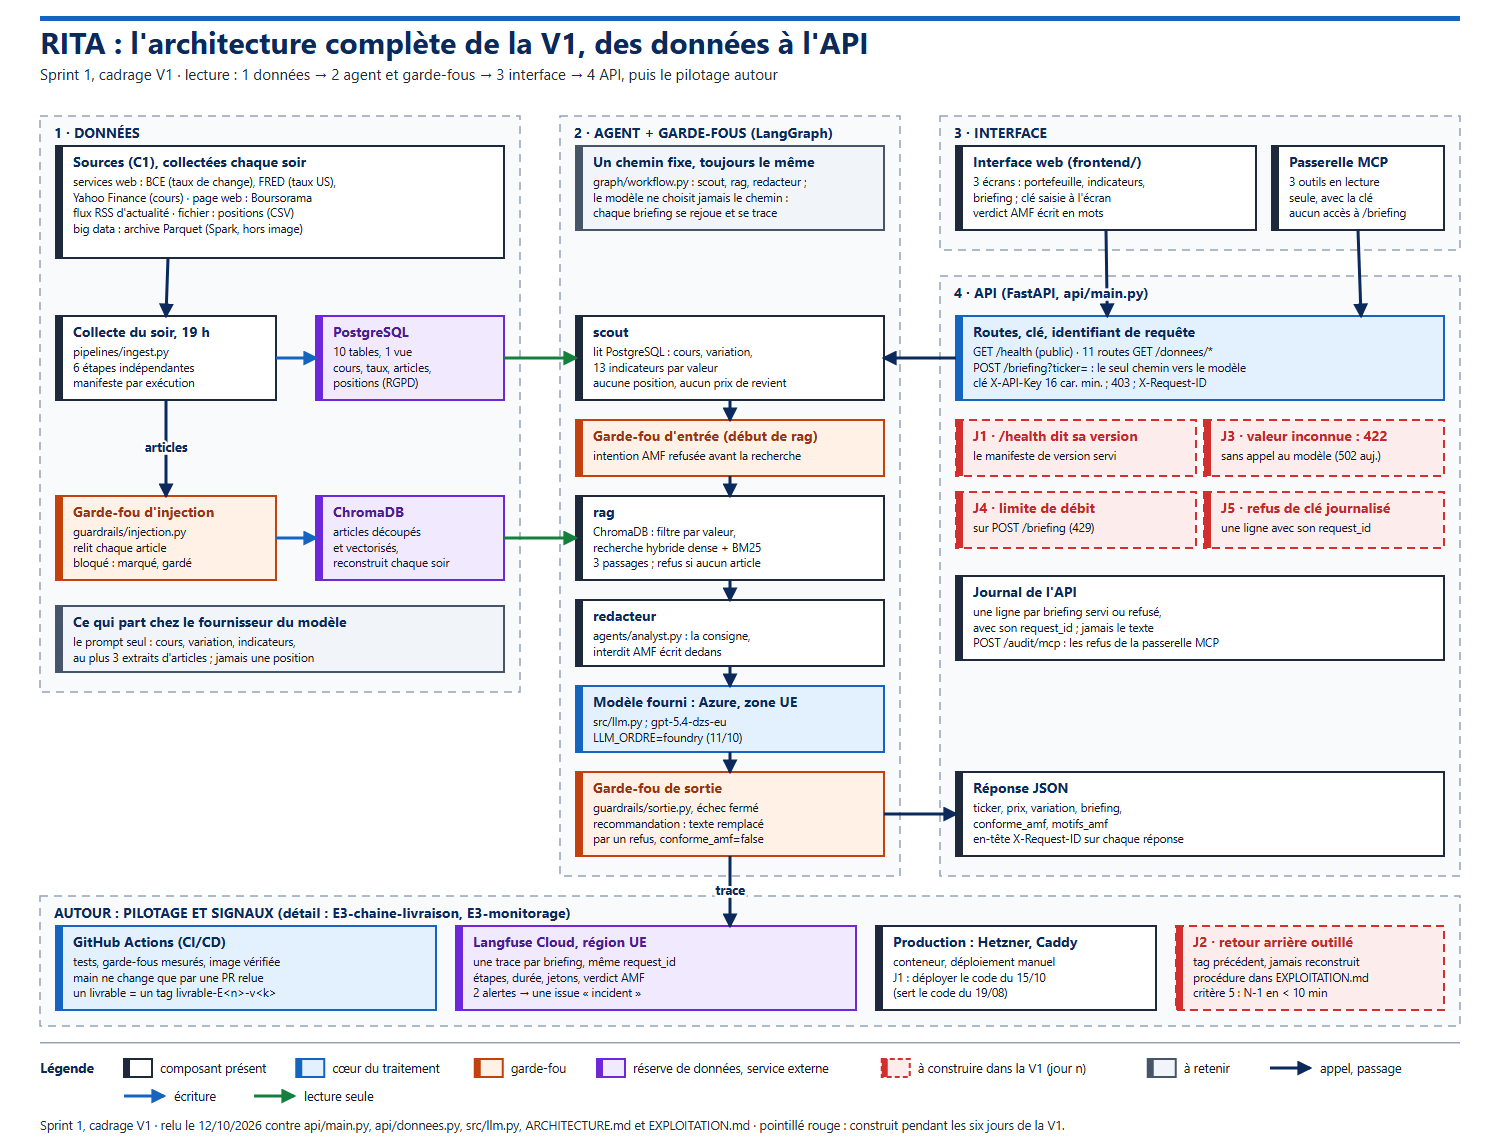
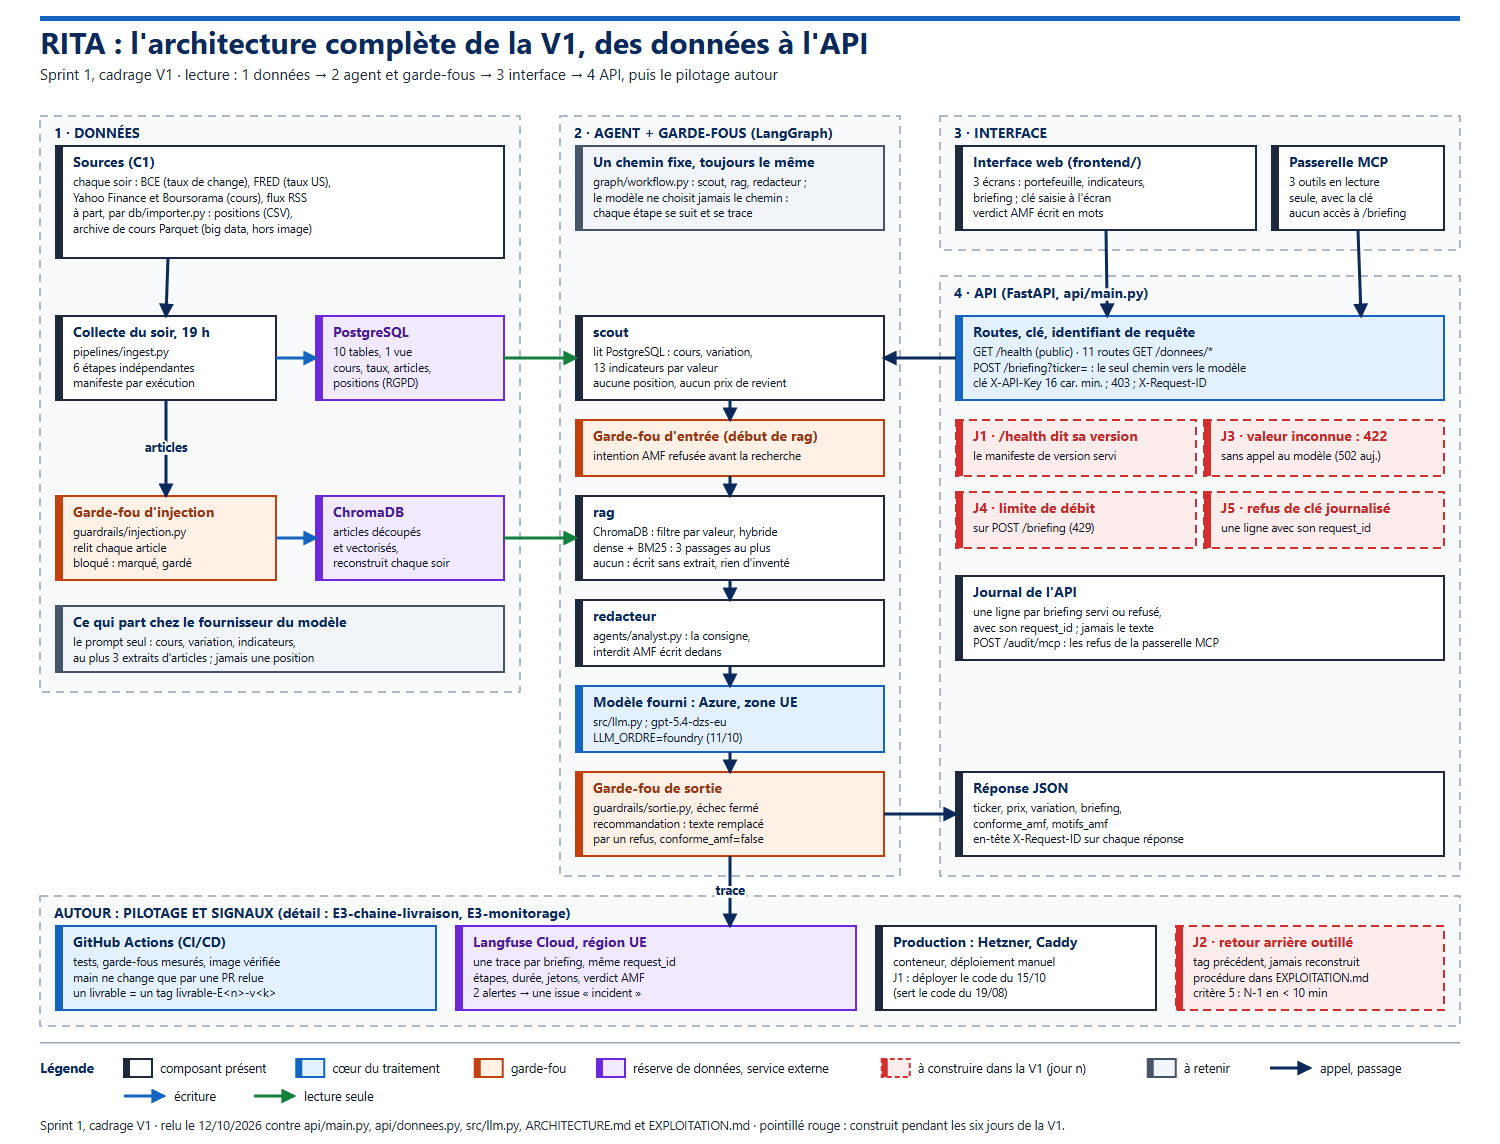
Cadrage V1 : jour 4 coupe en premier (le critere 4 exige le jour 5) ; schema corrige (positions et archive importees a part, rag sans extrait sans refus)

Changed region(s): [[0.0307, 0.1224, 0.2147, 0.2142], [0.3987, 0.4589, 0.5213, 0.5201], [0.4293, 0.1836, 0.5213, 0.2142]]

diff --git a/docs/cadrage/generer_schema_architecture_v1.py b/docs/cadrage/generer_schema_architecture_v1.py
@@ -29,11 +29,11 @@ ARCHI_V1 = Schema(
     boites=[
         # 1 · Données : les sources, la collecte du soir, les deux réserves.
         Boite("z1", 40, 100, 480, 576, "1 · DONNÉES", genre="zone"),
-        Boite("src", 56, 130, 448, 112, "Sources (C1), collectées chaque soir", [
-            "services web : BCE (taux de change), FRED (taux US),",
-            "  Yahoo Finance (cours) · page web : Boursorama",
-            "flux RSS d'actualité · fichier : positions (CSV)",
-            "big data : archive Parquet (Spark, hors image)"], "normal"),
+        Boite("src", 56, 130, 448, 112, "Sources (C1)", [
+            "chaque soir : BCE (taux de change), FRED (taux US),",
+            "  Yahoo Finance et Boursorama (cours), flux RSS",
+            "à part, par db/importer.py : positions (CSV),",
+            "  archive de cours Parquet (big data, hors image)"], "normal"),
         Boite("nuit", 56, 300, 220, 84, "Collecte du soir, 19 h", [
             "pipelines/ingest.py", "6 étapes indépendantes", "manifeste par exécution"], "normal"),
         Boite("pg", 316, 300, 188, 84, "PostgreSQL", [
@@ -51,15 +51,15 @@ ARCHI_V1 = Schema(
         Boite("fixe", 576, 130, 308, 84, "Un chemin fixe, toujours le même", [
             "graph/workflow.py : scout, rag, redacteur ;",
             "le modèle ne choisit jamais le chemin :",
-            "chaque briefing se rejoue et se trace"], "note"),
+            "chaque étape se suit et se trace"], "note"),
         Boite("scout", 576, 300, 308, 84, "scout", [
             "lit PostgreSQL : cours, variation,", "13 indicateurs par valeur",
             "aucune position, aucun prix de revient"], "normal"),
         Boite("ge", 576, 404, 308, 56, "Garde-fou d'entrée (début de rag)", [
             "intention AMF refusée avant la recherche"], "garde"),
         Boite("rag", 576, 480, 308, 84, "rag", [
-            "ChromaDB : filtre par valeur,", "recherche hybride dense + BM25",
-            "3 passages ; refus si aucun article"], "normal"),
+            "ChromaDB : filtre par valeur, hybride", "dense + BM25 : 3 passages au plus",
+            "aucun : écrit sans extrait, rien d'inventé"], "normal"),
         Boite("red", 576, 584, 308, 66, "redacteur", [
             "agents/analyst.py : la consigne,", "interdit AMF écrit dedans"], "normal"),
         Boite("mod", 576, 670, 308, 66, "Modèle fourni : Azure, zone UE", [

diff --git a/docs/CADRAGE-V1.md b/docs/CADRAGE-V1.md
@@ -31,7 +31,8 @@ Le parcours principal existe et est testé. La V1 ferme les manques déjà relev
 | 5 | Refus de clé journalisés avec leur `request_id` |
 | 6 | Marge : tests et documentation |
 
-À couper en premier si le temps manque : le jour 5, gardé comme limite connue.
+À couper en premier si le temps manque : le jour 4, gardé comme limite connue, car aucun critère du contrat n'en
+dépend. Le jour 5 reste : le critère 4 exige la ligne de refus.
 
 **Ce que la V1 reprend du chapitre « Industrialisation » (brief du 15/09).** Le
 manifeste de version (jour 1), le retour arrière (jour 2) et le 422 pour une valeur
@@ -53,9 +54,10 @@ modèle Azure AI Foundry en zone UE. Élément hors socle : [À CONFIRMER].
 
 ## 5. Schémas
 
-**Le système complet.** Chaque soir, la collecte lit six sources (cours, taux de la
-BCE, séries FRED, flux RSS, pages scrapées, fichier de positions) et range tout
-dans PostgreSQL ; les articles sont aussi indexés dans ChromaDB. À la demande,
+**Le système complet.** Chaque soir, la collecte lit ses sources (cours, taux de la
+BCE, séries FRED, flux RSS, pages scrapées) en six étapes indépendantes et range tout
+dans PostgreSQL ; les articles admis sont aussi indexés dans ChromaDB. Le fichier de
+positions et l'archive de cours sont importés à part (`db/importer.py`). À la demande,
 l'interface (trois écrans) ou un assistant passant par la passerelle MCP appelle
 l'API FastAPI, protégée par une clé. Pour un briefing, le graphe enchaîne `scout`,
 `rag` et `redacteur`, le modèle Azure (zone UE) rédige, et le garde-fou de sortie

diff --git a/docs/cadrage/README.md b/docs/cadrage/README.md
@@ -26,5 +26,7 @@ Puis le rendu PNG (Chrome exige un `--user-data-dir`, sinon il échoue sans mess
 "C:\Program Files\Google\Chrome\Application\chrome.exe" --headless=new --disable-gpu --hide-scrollbars --user-data-dir=%TEMP%\chrome-rendu --window-size=1500,1144 --screenshot=docs\cadrage\CADRAGE-architecture-v1.png file:///D:/KandaWork/RITA_PROJECT/rita-agent/docs/cadrage/CADRAGE-architecture-v1.svg
 ```
 
-Le PNG du 12/10/2026 a été regardé avant d'être rangé : aucune flèche ne traverse une boîte ni un titre, aucun texte
+Corrigé le 12/10/2026 au soir après relecture contre le code : les positions et l'archive Parquet sont importées à
+part (`db/importer.py`), pas collectées chaque soir ; sans article trouvé, `rag` rend zéro passage et le briefing
+s'écrit sans extrait (pas de refus). Le PNG a été regardé avant d'être rangé : aucune flèche ne traverse une boîte ni un titre, aucun texte
 ne dépasse de sa boîte. Le `.drawio` et le `.svg` se lisent comme du XML valide (99 et 218 éléments).
